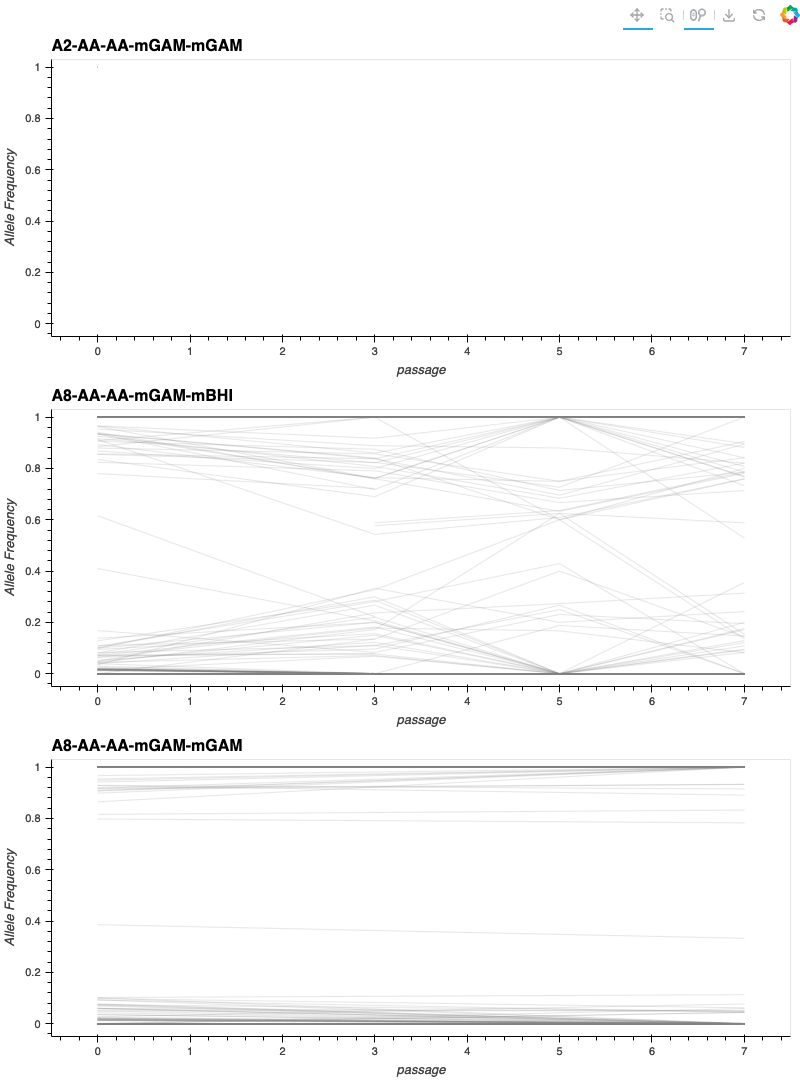
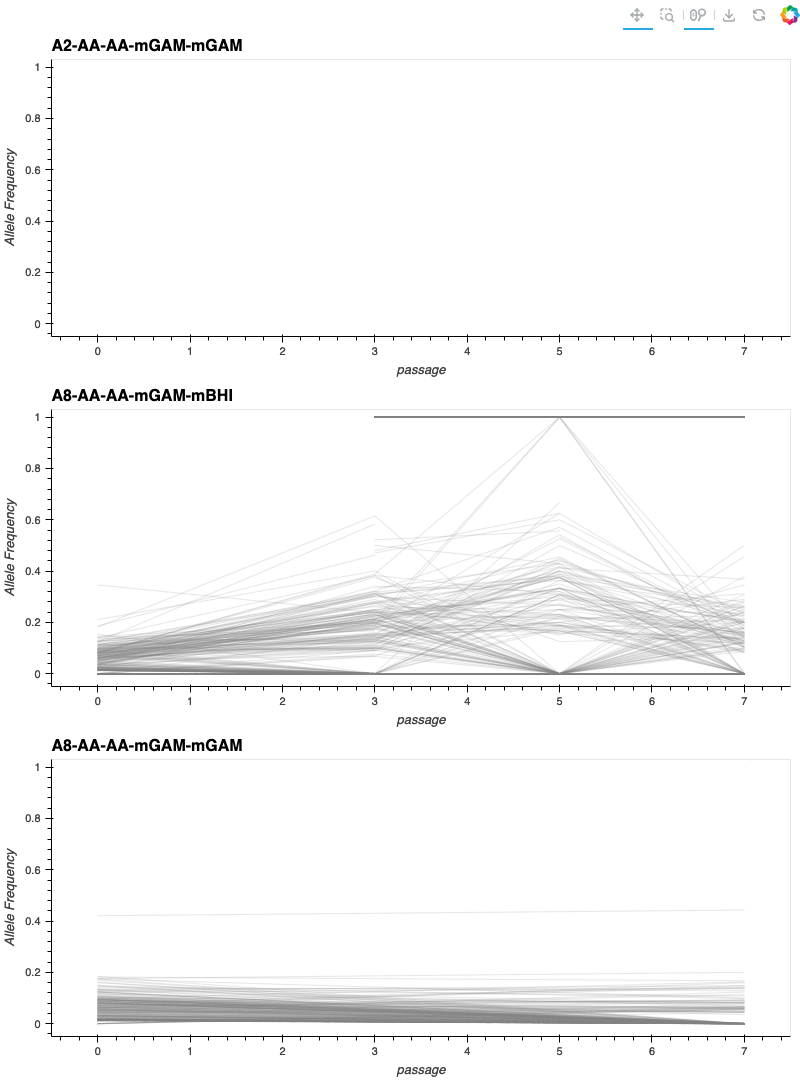
woo

diff --git a/workflow/scripts/make_snps_plots_no_tracking.py b/workflow/scripts/make_snps_plots_no_tracking.py
@@ -33,6 +33,9 @@ def get_frequency_parent(freq_children, parent_snps):
 
     return median_freq 
 
+def polarize_by_sample(freq, sample):
+    freq.loc[freq[sample] > .5, :] = 1- freq.loc[freq[sample] > .5, :]
+    return freq 
 
 def get_parent_children(inoculumn):
     metadata = pd.read_csv('config/e003_coal_metadata_full.csv')
@@ -87,14 +90,16 @@ def get_inoculumn_sort(x):
 
 def prepare_freq_for_plotting(freq, polarize_sample):
     freq = polarize_by_sample(freq, polarize_sample)
-
+    print(len(freq))
     fixed_snps0 = freq < 1e-3
     fixed_snps0 = fixed_snps0.sum(axis = 1)
-    freq = freq.loc[fixed_snps0 == len(freq.columns.values),:]
+    freq = freq.loc[fixed_snps0 < len(freq.columns.values),:]
+    print(len(freq))
     fixed_snps1 = freq > 1-1e-3
     fixed_snps1 = fixed_snps1.sum(axis = 1)
-    freq = freq.loc[fixed_snps1 == len(freq.columns.values),:]
+    freq = freq.loc[fixed_snps1 < len(freq.columns.values),:]
    # freq = freq.loc[freq[fixed]]
+    print(len(freq))
     return freq
 
 
@@ -203,14 +208,18 @@ if __name__ == '__main__':
            # print(freq_filtered.columns.values) 
             samples = list(np.intersect1d(samples, freq_filtered.columns.values))     
             freq_filtered_mesocosm = freq_filtered[samples]
-            freq_filtered_mesocosm = prepare_freq_for_plotting(freq_filtered_mesocosm)
-            random_snps = np.random.choice(freq_filtered_mesocosm.index.values, 10000)
-            freq_filtered_mesocosm_rand  = freq_filtered_mesocosm.loc[random_snps, :]
-            freq_filtered_mesocosm_rand = get_tidy_df(freq_filtered_mesocosm_rand, e003_metadata, )
-           # print('go', freq_filtered_mesocosm_rand) 
+            freq_filtered_mesocosm = prepare_freq_for_plotting(freq_filtered_mesocosm, inoculumn_sample)
+            if len(freq_filtered_mesocosm) > 10000:
+            	random_snps = np.random.choice(freq_filtered_mesocosm.index.values, 10000)
+            	freq_filtered_mesocosm  = freq_filtered_mesocosm.loc[random_snps, :]
+            freq_filtered_mesocosm = get_tidy_df(freq_filtered_mesocosm, e003_metadata, )
+            if len(freq_filtered_mesocosm) > 0:
+	#	continue            
+# print('go', freq_filtered_mesocosm_rand) 
            # if i == 1:
-            p = make_mesocosm_timecourse(freq_filtered_mesocosm_rand, title = mesocosm )
-            plots.append(hv.render(p))
+            	p = make_mesocosm_timecourse(freq_filtered_mesocosm, title = mesocosm )
+            #print(len(freq_filtered_mesocosm))
+            	plots.append(hv.render(p))
 #            print(p)
                
         bokeh.io.export_png(bokeh.layouts.gridplot(plots,ncols = 1), filename = f'{save_dir}/{inoculumnstr}_snps.png')
